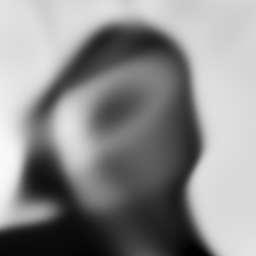
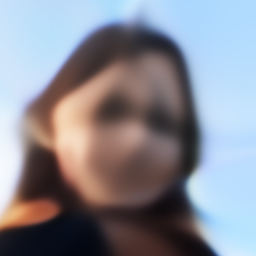
color support

diff --git a/src/main.rs b/src/main.rs
@@ -48,7 +48,7 @@ async fn main() {
 
     let image_data = image.to_rgba8();
 
-    let nn_structure = &[2, 28,28,9, 1];
+    let nn_structure = &[2, 28,28,9, 3];
     let nn = Arc::new(Mutex::new(NN::new(nn_structure)));
     let gradient = NN::new(nn_structure);
 
@@ -67,14 +67,19 @@ async fn main() {
         t_input.data = vec![];
         t_output.data = vec![];
         t_input.cols = 2;
-        t_output.cols = 1;
+        t_output.cols = 3;
 
         for (x, y, pixel) in image_data.enumerate_pixels() {
             t_input.push_row(&[
                 x as f32 / image_data.width() as f32,
                 y as f32 / image_data.height() as f32,
             ]);
-            t_output.push_row(&[pixel[0] as f32 / 255.]);
+            // t_output.push_row(&[pixel[0] as f32 / 255.]);
+            t_output.push_row(&[
+                pixel[0] as f32 / 255.,
+                pixel[1] as f32 / 255.,
+                pixel[2] as f32 / 255.,
+            ]);
         }
 
         t_input.rows = t_input.data.len();
@@ -217,8 +222,11 @@ async fn main() {
                     nn.activations[0] = input.clone();
                     NN::forward(&mut nn);
                     let output = &nn.activations[nn.activations.len() - 1];
-                    let color = (output.data[0][0] * 255.) as u8;
-                    *pixel = image::Rgba([color, color, color, 255]);
+                    // let color = (output.data[0][0] * 255.) as u8;
+                    let red = (output.data[0][0] * 255.) as u8;
+                    let green = (output.data[0][1] * 255.) as u8;
+                    let blue = (output.data[0][2] * 255.) as u8;
+                    *pixel = image::Rgba([red, green, blue, 255]);
                 }
 
                 image.save("output.png").unwrap();

diff --git a/src/draw.rs b/src/draw.rs
@@ -186,8 +186,11 @@ fn draw_preview_image(width: usize, height: usize,scale: f32, nn: &mut NN){
             nn.activations[0].data[0][0] = j as f32 / width as f32;
             nn.activations[0].data[0][1] = i as f32 / height as f32;
             NN::forward(nn);
-            let value = nn.activations[nn.count - 1].data[0][0];
-            image.set_pixel(j as u32, i as u32, Color{r: value, g: value, b: value, a: 1.});
+            // let value = nn.activations[nn.count - 1].data[0][0];
+            let red = nn.activations[nn.count - 1].data[0][0];
+            let green = nn.activations[nn.count - 1].data[0][1];
+            let blue = nn.activations[nn.count - 1].data[0][2];
+            image.set_pixel(j as u32, i as u32, Color{r: red, g: green, b: blue, a: 1.});
         }
     }
 
